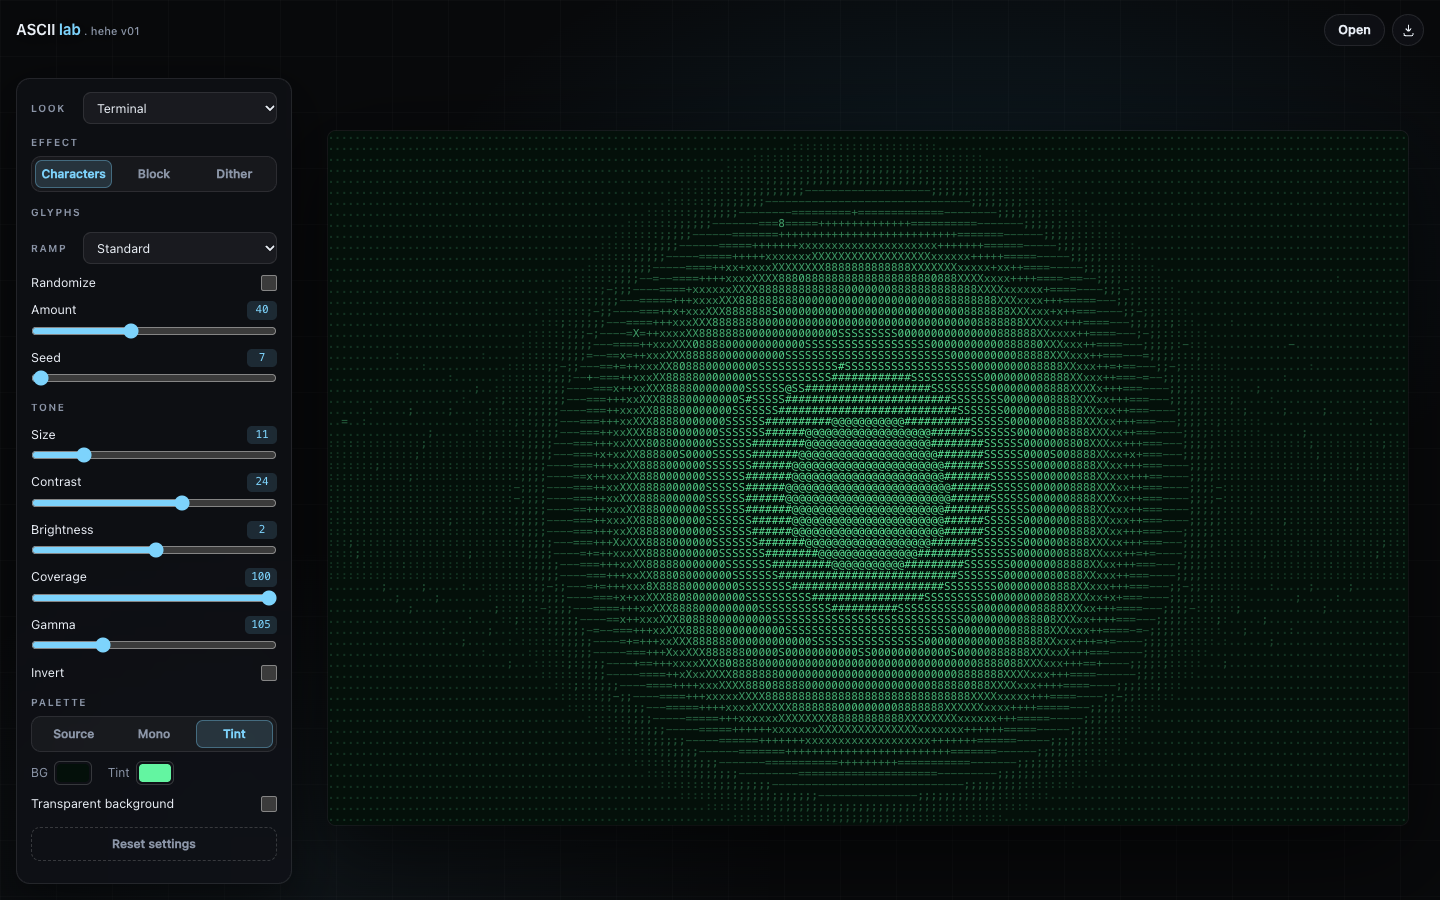
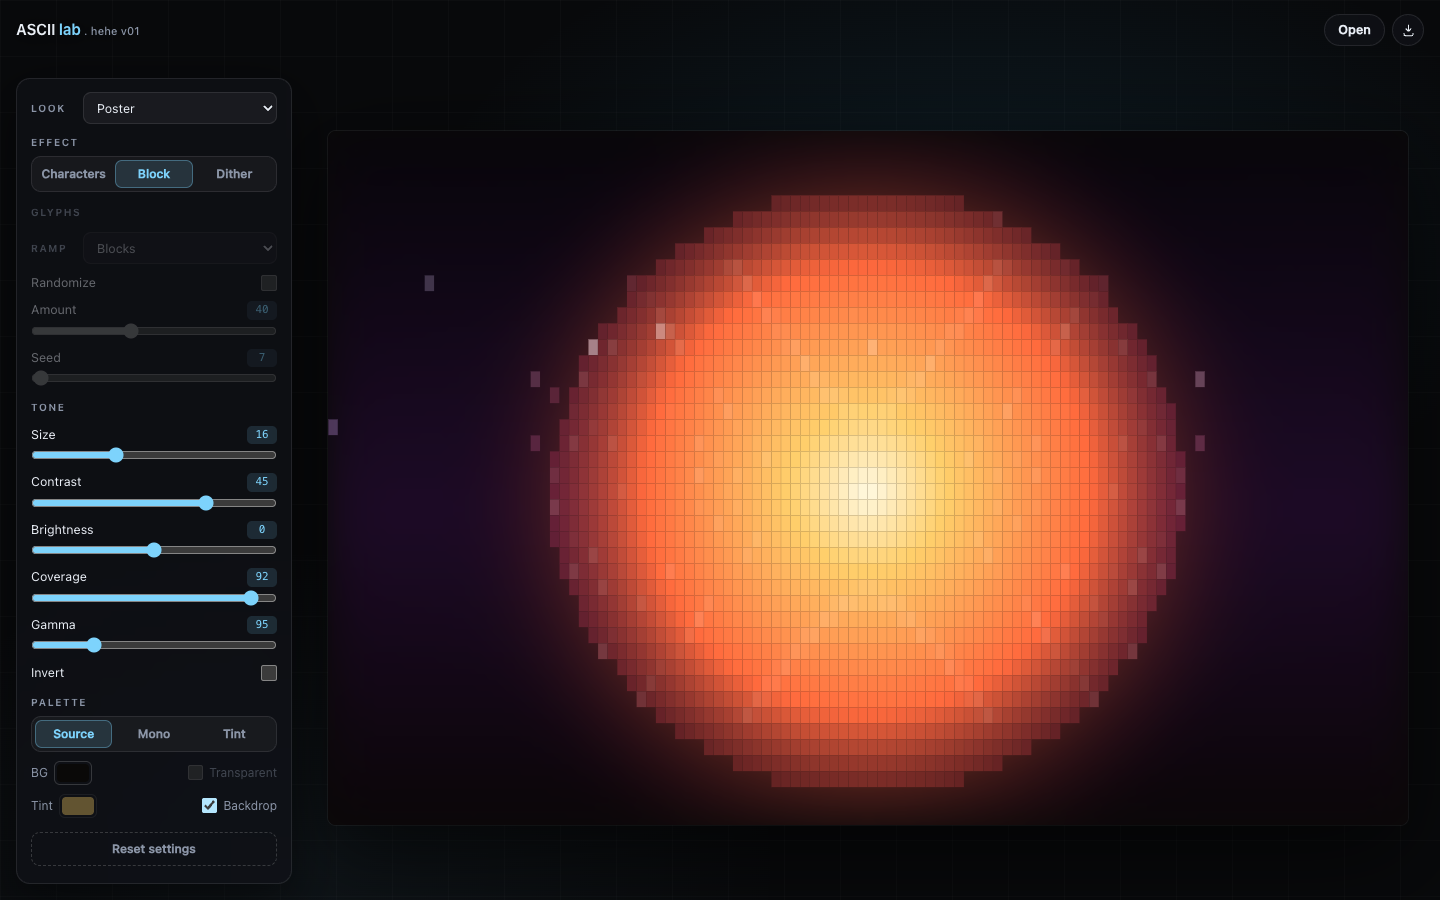
Add blurred image backdrop mode

diff --git a/index.html b/index.html
@@ -412,11 +412,13 @@
   .color-row {
     display: flex;
     align-items: center;
-    gap: 16px;
+    justify-content: space-between;
+    gap: 12px;
     margin-top: 9px;
   }
 
-  .color-field {
+  .color-field,
+  .toggle-inline {
     display: inline-flex;
     align-items: center;
     gap: 6px;
@@ -424,6 +426,16 @@
     color: var(--muted);
     cursor: pointer;
   }
+
+  .toggle-inline input {
+    width: 15px;
+    height: 15px;
+    margin: 0;
+    accent-color: var(--accent);
+    cursor: pointer;
+  }
+
+  .toggle-inline:has(input:disabled) { opacity: 0.4; pointer-events: none; }
 
   input[type="color"] {
     width: 38px;
@@ -740,13 +752,13 @@
 
       <div class="color-row">
         <label class="color-field" for="bgColor">BG <input type="color" id="bgColor" data-color="bg" value="#000000"></label>
-        <label class="color-field" for="tintColor">Tint <input type="color" id="tintColor" data-color="tintColor" value="#7dd3fc" disabled></label>
+        <label class="toggle-inline" for="bgTransparent"><input type="checkbox" id="bgTransparent" data-flag="bgTransparent"> Transparent</label>
       </div>
 
-      <label class="switch-row" for="bgTransparent">
-        <span>Transparent background</span>
-        <input type="checkbox" id="bgTransparent" data-flag="bgTransparent">
-      </label>
+      <div class="color-row">
+        <label class="color-field" for="tintColor">Tint <input type="color" id="tintColor" data-color="tintColor" value="#7dd3fc" disabled></label>
+        <label class="toggle-inline" for="backdrop" title="Blurred, dimmed source image behind the glyphs"><input type="checkbox" id="backdrop" data-flag="backdrop"> Backdrop</label>
+      </div>
     </div>
 
     <button type="button" class="btn-reset" id="resetBtn">Reset settings</button>
@@ -791,6 +803,7 @@
     bg: '#000000',
     bgTransparent: false,
     tintColor: '#7dd3fc',
+    backdrop: false,
     randomize: false,
     randomAmount: 40,
     randomSeed: 7,
@@ -992,6 +1005,38 @@
     return (r, g, b) => `rgb(${r | 0},${g | 0},${b | 0})`;
   }
 
+  function hexToRgba(hex, alpha) {
+    const { r, g, b } = hexRgb(hex);
+    return `rgba(${r},${g},${b},${alpha})`;
+  }
+
+  function drawCover(ctx, source, width, height) {
+    const { w: iw, h: ih } = sourceSize(source);
+    const scale = Math.max(width / iw, height / ih);
+    const w = iw * scale;
+    const h = ih * scale;
+    ctx.drawImage(source, (width - w) / 2, (height - h) / 2, w, h);
+  }
+
+  function paintBackdrop(ctx, image, state, width, height, fontPx) {
+    const backdrop = Boolean(state.backdrop && image);
+    if (!state.bgTransparent || backdrop) {
+      ctx.fillStyle = state.bg;
+      ctx.fillRect(0, 0, width, height);
+    }
+    if (!backdrop) return;
+
+    ctx.save();
+    if (typeof ctx.filter === 'string') {
+      ctx.filter = `blur(${Math.max(4, fontPx * 1.4)}px)`;
+    }
+    drawCover(ctx, image, width, height);
+    ctx.filter = 'none';
+    ctx.fillStyle = hexToRgba(state.bg, 0.45);
+    ctx.fillRect(0, 0, width, height);
+    ctx.restore();
+  }
+
   function cellNoise(col, row, seed) {
     let h = Math.imul(col + 0x9e3779b9, 0x85ebca6b) ^ Math.imul(row + 0x7f4a7c15, 0xc2b2ae35) ^ Math.imul(seed + 1, 0x27d4eb2f);
     h = Math.imul(h ^ (h >>> 15), 0x2c1b3c6d);
@@ -1112,16 +1157,13 @@
     ctx.globalCompositeOperation = 'source-over';
     ctx.shadowBlur = 0;
     ctx.clearRect(0, 0, canvas.width, canvas.height);
-    if (!state.bgTransparent) {
-      ctx.fillStyle = state.bg;
-      ctx.fillRect(0, 0, canvas.width, canvas.height);
-    }
 
     const effect = state.effect || 'chars';
     const scaled = effect === 'dither';
     const fontPx = Math.max(3, state.size * unit);
     const font = `${fontPx}px ui-monospace, "SF Mono", Menlo, monospace`;
 
+    paintBackdrop(ctx, image, state, canvas.width, canvas.height, fontPx);
     ctx.font = font;
     let cellW = Math.max(2, ctx.measureText('M').width);
     let cellH = fontPx;
@@ -1160,6 +1202,17 @@
     return svgFontCtx.measureText('M').width;
   }
 
+  function backdropDataUrl(source, width, height) {
+    const scale = Math.min(1, 1400 / Math.max(width, height));
+    const w = Math.max(1, Math.round(width * scale));
+    const h = Math.max(1, Math.round(height * scale));
+    const thumb = document.createElement('canvas');
+    thumb.width = w;
+    thumb.height = h;
+    drawCover(thumb.getContext('2d'), source, w, h);
+    return thumb.toDataURL('image/jpeg', 0.82);
+  }
+
   function renderSvg(image, state, outWidth, outHeight, unit) {
     const width = Math.max(1, Math.round(outWidth));
     const height = Math.max(1, Math.round(outHeight));
@@ -1184,7 +1237,12 @@
     const parts = [];
     parts.push(`<svg xmlns="http://www.w3.org/2000/svg" width="${width}" height="${height}" viewBox="0 0 ${width} ${height}" role="img">`);
     parts.push(`<title>${escapeXml(title)}</title>`);
-    if (!state.bgTransparent) {
+    if (state.backdrop && image) {
+      const blur = fixed(Math.max(4, state.size * 1.4));
+      parts.push(`<defs><filter id="bgblur" x="-15%" y="-15%" width="130%" height="130%"><feGaussianBlur stdDeviation="${blur}"/></filter></defs>`);
+      parts.push(`<image href="${backdropDataUrl(image, width, height)}" x="0" y="0" width="${width}" height="${height}" preserveAspectRatio="xMidYMid slice" filter="url(#bgblur)"/>`);
+      parts.push(`<rect width="${width}" height="${height}" fill="${escapeXml(state.bg)}" opacity="0.45"/>`);
+    } else if (!state.bgTransparent) {
       parts.push(`<rect width="${width}" height="${height}" fill="${escapeXml(state.bg)}"/>`);
     }
 
@@ -1275,6 +1333,7 @@
   const presetSelect = document.getElementById('preset');
   const bgColor = document.getElementById('bgColor');
   const tintColor = document.getElementById('tintColor');
+  const transparentToggle = document.getElementById('bgTransparent');
   const resetBtn = document.getElementById('resetBtn');
   const fileInput = document.getElementById('fileInput');
   const exportMenu = document.getElementById('exportMenu');
@@ -1367,7 +1426,7 @@
   }
 
   function applyCanvasLook() {
-    const transparent = Boolean(state.bgTransparent);
+    const transparent = Boolean(state.bgTransparent && !state.backdrop);
     canvas.classList.toggle('is-transparent', transparent);
     canvas.style.background = transparent ? '' : state.bg;
   }
@@ -1534,8 +1593,10 @@
   function applyPreset(id) {
     const preset = PRESETS[id];
     if (!preset) return;
+    const backdrop = state.backdrop;
     Object.assign(state, DEFAULT_STATE, preset);
     state.chars = rampById(state.ramp).chars;
+    state.backdrop = backdrop;
     state.preset = id;
     syncControls();
     requestRender();
@@ -1548,6 +1609,7 @@
     tintColor.value = state.tintColor;
     bgColor.disabled = Boolean(state.bgTransparent);
     tintColor.disabled = state.palette !== 'tint';
+    transparentToggle.disabled = Boolean(state.backdrop);
     applyCanvasLook();
 
     for (const button of panel.querySelectorAll('[data-effect]')) {
@@ -1818,8 +1880,9 @@
         const key = target.dataset.flag;
         if (key) {
           state[key] = target.checked;
+          if (key === 'backdrop' && state.backdrop) state.bgTransparent = false;
           markCustom();
-          if (key === 'bgTransparent') syncControls();
+          if (key === 'bgTransparent' || key === 'backdrop') syncControls();
           requestRender();
         }
       }

diff --git a/README.md b/README.md
@@ -19,6 +19,7 @@ Most ASCII converters ship a build step, a CDN dependency or an upload. This one
 - **Tone controls** — size, contrast, brightness, coverage, gamma, invert.
 - **Palettes** — source colours, monochrome, or a duotone tint.
 - **Canvas colours** — custom background and transparent output for PNG and SVG.
+- **Image backdrop** — a blurred, dimmed copy of the source image sits behind the glyphs.
 - **Exports** — PNG (1× / 2×), JPG, SVG, plus plain-text ASCII (.txt) and copy-to-clipboard.
 - **Comfortable viewing** — drag & drop, wheel zoom, pinch zoom, pan, double-click to reset.
 - **Responsive** — a floating side panel on desktop, a bottom sheet on mobile.
@@ -39,7 +40,7 @@ You can also open `index.html` directly from disk. If a browser refuses to read 
 
 ## Export sizes
 
-PNG 1× matches the on-screen canvas, 2× doubles it. Exports are clamped to 8192 px per side and 16 megapixels. SVG keeps glyphs and blocks as real vector elements, with no embedded raster image. With a transparent background, PNG and SVG keep the alpha channel; JPG falls back to the chosen background colour.
+PNG 1× matches the on-screen canvas, 2× doubles it. Exports are clamped to 8192 px per side and 16 megapixels. SVG keeps glyphs and blocks as real vector elements and only embeds a blurred JPEG layer when the image backdrop is on. With a transparent background, PNG and SVG keep the alpha channel; JPG falls back to the chosen background colour.
 
 ## Keyboard
 
